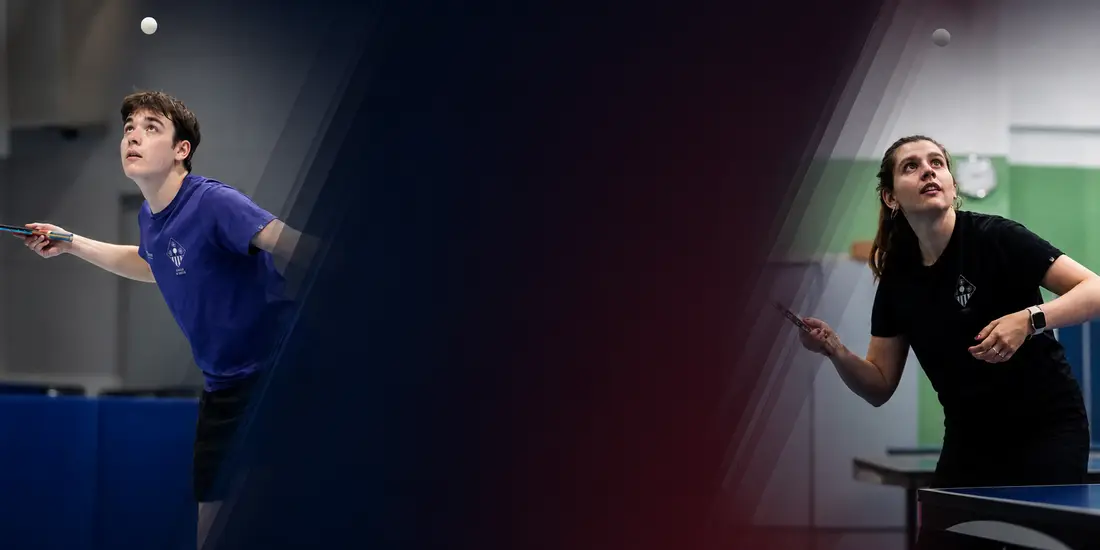
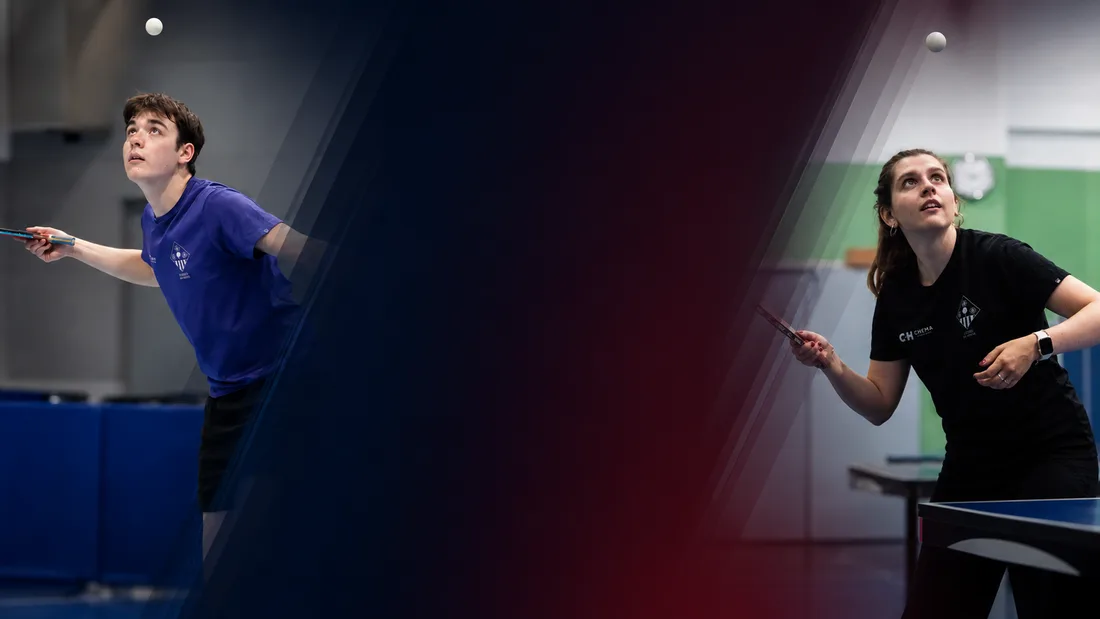
text polishing

diff --git a/js/i18n.js b/js/i18n.js
@@ -26,19 +26,19 @@
       'pillar1.title': 'Entrenaments',
       'pillar1.body': 'Grups per nivell de dilluns a divendres, amb entrenadors del club.',
       'pillar2.title': 'Competició',
-      'pillar2.body': "Equips a la Lliga Sènior, la Lliga de Veterans, la Copa Catalana i els Equips Estatals (equips masculins i femenins).",
+      'pillar2.body': "Equips a la Lliga Sènior, la Lliga de Veterans, la Copa Catalana (FCTT) i Lligues Estatals (RFETM), amb equips masculins i femenins.",
       'pillar3.title': 'Comunitat',
-      'pillar3.body': "La secció de tennis taula de l'associació Lluïsos de Gràcia: jugadors de totes les edats i nivells que comparteixen sala, entrenaments i equips.",
+      'pillar3.body': "La secció de tennis taula de Lluïsos de Gràcia: jugadors de totes les edats i nivells que comparteixen sala, entrenaments i equips.",
 
       'timeline.title': 'La nostra història',
       'milestone1.strong': "Fundació de l'escola",
-      'milestone1.p': "Neix l'Escola de Tennis Taula de Lluïsos de Gràcia, amb un grup reduït de nens i nenes entrenant sota la direcció tècnica d'en Fabio, que encara forma part de l'equip tècnic avui.",
+      'milestone1.p': "Neix l'Escola de Tennis Taula de Lluïsos de Gràcia, amb un grup reduït de nens i nenes entrenant sota la direcció tècnica d'en Fabio Pérez Crespo, que encara forma part de l'equip tècnic avui.",
       'milestone2.strong': 'Debut a les lligues de la FCTT',
       'milestone2.p': "L'ETT inicia la seva participació a les lligues de la Federació Catalana de Tennis Taula.",
       'milestone3.strong': 'Primera temporada a lliga nacional',
       'milestone3.p': "Després d'anys de progressió a les lligues catalanes, el club fa el salt a la competició estatal per primer cop.",
       'milestone4.strong': 'Sala nova',
-      'milestone4.p': "S'inaugura una sala nova, exclusiva per al tennis taula, amb més capacitat per als equips i per als grups de base.",
+      'milestone4.p': "S'inaugura una sala nova, exclusiva per al tennis taula, amb més capacitat per als equips i per als grups de base. S'afegeix a l'antic gimnàs i, a partir de llavors, el club disposa de 12 taules per entrenar.",
       'milestone5.strong': "Lliga nacional femenina i Divisió d'Honor",
       'milestone5.p': "Primera participació de l'equip femení a la lliga nacional, i ascens del primer equip masculí a la Divisió d'Honor.",
 
@@ -47,7 +47,7 @@
       'entity.p2': "Fidels als valors de l'entitat, sempre hem obert les portes a tothom que vulgui jugar, amb independència de l'edat o del nivell de competitivitat.",
 
       'team.title1': 'La junta',
-      'team.body1': "Una colla de voluntaris, alguns de fa anys i altres de nou, que es reparteixen la tresoreria, la compra i el manteniment del material, la gestió d'esdeveniments interns i les xarxes socials, entre moltes altres tasques. Actualment en formen part 11 persones, i la porta sempre és oberta a qui vulgui participar-hi.",
+      'team.body1': "Una colla de voluntaris, alguns de fa anys i altres de nou, que es reparteixen la tresoreria, la compra i el manteniment del material, les gestions administratives i econòmiques, la captació d'espònsors, l'organització d'esdeveniments interns i les xarxes socials, entre moltes altres tasques. Actualment en formen part 7 persones, i la porta sempre és oberta a qui vulgui participar-hi.",
       'team.title2': 'Equip tècnic',
       'team.body2': "12 entrenadors i entrenadores s'encarreguen dels grups de totes les edats i nivells, molts d'ells formats al mateix club. Sempre afavorim que les noves generacions amb ganes de fer-ho s'hi puguin anar incorporant.",
 
@@ -67,7 +67,7 @@
       'sponsor.alt': 'Daruma — Serveis lingüístics i traducció',
 
       'footer.tagline': 'Secció de Tennis Taula',
-      'footer.sponsorCta': 'Ets una empresa i vols col·laborar amb el club? Escriu-nos',
+      'footer.sponsorCta': 'Ets una empresa i vols col·laborar amb el club? Escriu-nos a escolatennistaula@lluisosdegracia.cat',
       'footer.bottom': '© Lluïsos de Gràcia · Secció de Tennis Taula, des de 2008',
 
       'meta.title': 'Lluïsos de Gràcia · Tennis Taula',
@@ -95,19 +95,19 @@
       'pillar1.title': 'Training',
       'pillar1.body': "Level-based groups Monday to Friday, with the club's own coaches.",
       'pillar2.title': 'Competition',
-      'pillar2.body': "Teams in the Senior League, the Veterans League, the Copa Catalana and the National Teams (men's and women's).",
+      'pillar2.body': "Teams in the Senior League, the Veterans League, the Copa Catalana (FCTT) and the National Leagues (RFETM), with both men's and women's teams.",
       'pillar3.title': 'Community',
-      'pillar3.body': "The table tennis section of the Lluïsos de Gràcia association: players of every age and level sharing a hall, training sessions and teams.",
+      'pillar3.body': "The table tennis section of Lluïsos de Gràcia: players of every age and level sharing a hall, training sessions and teams.",
 
       'timeline.title': 'Our history',
       'milestone1.strong': 'The school is founded',
-      'milestone1.p': "The Lluïsos de Gràcia Table Tennis School is born, with a small group of children training under Fabio's technical direction — he's still part of the coaching staff today.",
+      'milestone1.p': "The Lluïsos de Gràcia Table Tennis School is born, with a small group of children training under Fabio Pérez Crespo's technical direction — he's still part of the coaching staff today.",
       'milestone2.strong': 'Debut in the FCTT leagues',
       'milestone2.p': "The ETT begins competing in the Catalan Table Tennis Federation's leagues.",
       'milestone3.strong': 'First season in the national league',
       'milestone3.p': "After years of progress in the Catalan leagues, the club makes the leap to national competition for the first time.",
       'milestone4.strong': 'New hall',
-      'milestone4.p': "A new hall opens, dedicated exclusively to table tennis, with more capacity for the teams and the youth groups.",
+      'milestone4.p': "A new hall opens, dedicated exclusively to table tennis, with more capacity for the teams and the youth groups. It's added to the old gym, and from then on the club has 12 tables to train on.",
       'milestone5.strong': "Women's national league and Divisió d'Honor",
       'milestone5.p': "First participation of the women's team in the national league, and promotion of the men's first team to the Divisió d'Honor.",
 
@@ -116,7 +116,7 @@
       'entity.p2': "True to the entity's values, we've always opened our doors to anyone who wants to play, regardless of age or competitive level.",
 
       'team.title1': 'The board',
-      'team.body1': "A group of volunteers, some long-standing and others new, who share the treasury, buying and maintaining equipment, running internal events, social media and many other tasks. 11 people currently make up the board, and the door is always open to anyone who wants to get involved.",
+      'team.body1': "A group of volunteers, some long-standing and others new, who share the treasury, buying and maintaining equipment, administrative and financial matters, sponsor outreach, running internal events, social media and many other tasks. 7 people currently make up the board, and the door is always open to anyone who wants to get involved.",
       'team.title2': 'Coaching staff',
       'team.body2': "12 coaches run the groups across every age and level, many of them trained at the club itself. We always make room for new generations who want to join the coaching staff.",
 
@@ -136,7 +136,7 @@
       'sponsor.alt': 'Daruma — Language and translation services',
 
       'footer.tagline': 'Table Tennis Section',
-      'footer.sponsorCta': 'Are you a business interested in partnering with the club? Get in touch',
+      'footer.sponsorCta': 'Are you a business interested in partnering with the club? Email us at escolatennistaula@lluisosdegracia.cat',
       'footer.bottom': '© Lluïsos de Gràcia · Table Tennis Section, since 2008',
 
       'meta.title': 'Lluïsos de Gràcia · Table Tennis',

diff --git a/index.html b/index.html
@@ -37,7 +37,7 @@
   <div class="head"><span class="eyebrow" data-i18n="xifres.eyebrow">LLUÏSOS EN XIFRES</span><h2 id="xifres-title" data-i18n="xifres.title">Un club que no para de créixer</h2></div>
   <div class="statsGrid">
     <article class="stat reveal">
-      <strong>150+</strong>
+      <strong>170+</strong>
       <span data-i18n="stat1">anys de trajectòria de Lluïsos de Gràcia</span>
     </article>
     <article class="stat reveal reveal-delay-1">
@@ -53,7 +53,7 @@
       <span data-i18n="stat4">participacions en lligues i competicions cada temporada</span>
     </article>
     <article class="stat reveal reveal-delay-3">
-      <strong>25+</strong>
+      <strong>100+</strong>
       <span data-i18n="stat5">infants als nostres campus cada estiu</span>
     </article>
   </div>
@@ -70,12 +70,12 @@
     <article class="pillar violet reveal reveal-delay-1">
       <svg class="icon" viewBox="0 0 24 24" fill="none" stroke="currentColor" stroke-width="2" aria-hidden="true"><path d="M8 21h8M12 17v4M7 4h10v4a5 5 0 0 1-10 0z"/><path d="M7 5H3v2a4 4 0 0 0 4 4M17 5h4v2a4 4 0 0 1-4 4"/></svg>
       <h3 data-i18n="pillar2.title">Competició</h3>
-      <p data-i18n="pillar2.body">Equips a la Lliga Sènior, la Lliga de Veterans, la Copa Catalana i els Equips Estatals (equips masculins i femenins).</p>
+      <p data-i18n="pillar2.body">Equips a la Lliga Sènior, la Lliga de Veterans, la Copa Catalana (FCTT) i Lligues Estatals (RFETM), amb equips masculins i femenins.</p>
     </article>
     <article class="pillar pink reveal reveal-delay-2">
       <svg class="icon" viewBox="0 0 24 24" fill="none" stroke="currentColor" stroke-width="2" aria-hidden="true"><path d="M16 21v-2a4 4 0 0 0-4-4H6a4 4 0 0 0-4 4v2"/><circle cx="9" cy="7" r="4"/><path d="M22 21v-2a4 4 0 0 0-3-3.87M16 3.13a4 4 0 0 1 0 7.75"/></svg>
       <h3 data-i18n="pillar3.title">Comunitat</h3>
-      <p data-i18n="pillar3.body">La secció de tennis taula de l'associació Lluïsos de Gràcia: jugadors de totes les edats i nivells que comparteixen sala, entrenaments i equips.</p>
+      <p data-i18n="pillar3.body">La secció de tennis taula de Lluïsos de Gràcia: jugadors de totes les edats i nivells que comparteixen sala, entrenaments i equips.</p>
     </article>
   </div>
   <div class="story">
@@ -84,7 +84,7 @@
       <ol class="milestones">
         <li>
           <span class="year">2008</span>
-          <div><strong data-i18n="milestone1.strong">Fundació de l'escola</strong><p data-i18n="milestone1.p">Neix l'Escola de Tennis Taula de Lluïsos de Gràcia, amb un grup reduït de nens i nenes entrenant sota la direcció tècnica d'en Fabio, que encara forma part de l'equip tècnic avui.</p></div>
+          <div><strong data-i18n="milestone1.strong">Fundació de l'escola</strong><p data-i18n="milestone1.p">Neix l'Escola de Tennis Taula de Lluïsos de Gràcia, amb un grup reduït de nens i nenes entrenant sota la direcció tècnica d'en Fabio Pérez Crespo, que encara forma part de l'equip tècnic avui.</p></div>
         </li>
         <li>
           <span class="year">2010</span>
@@ -96,7 +96,7 @@
         </li>
         <li>
           <span class="year">2017</span>
-          <div><strong data-i18n="milestone4.strong">Sala nova</strong><p data-i18n="milestone4.p">S'inaugura una sala nova, exclusiva per al tennis taula, amb més capacitat per als equips i per als grups de base.</p></div>
+          <div><strong data-i18n="milestone4.strong">Sala nova</strong><p data-i18n="milestone4.p">S'inaugura una sala nova, exclusiva per al tennis taula, amb més capacitat per als equips i per als grups de base. S'afegeix a l'antic gimnàs i, a partir de llavors, el club disposa de 12 taules per entrenar.</p></div>
         </li>
         <li>
           <span class="year">2026</span>
@@ -114,7 +114,7 @@
   <div class="team">
     <div class="reveal">
       <h3 data-i18n="team.title1">La junta</h3>
-      <p data-i18n="team.body1">Una colla de voluntaris, alguns de fa anys i altres de nou, que es reparteixen la tresoreria, la compra i el manteniment del material, la gestió d'esdeveniments interns i les xarxes socials, entre moltes altres tasques. Actualment en formen part 11 persones, i la porta sempre és oberta a qui vulgui participar-hi.</p>
+      <p data-i18n="team.body1">Una colla de voluntaris, alguns de fa anys i altres de nou, que es reparteixen la tresoreria, la compra i el manteniment del material, les gestions administratives i econòmiques, la captació d'espònsors, l'organització d'esdeveniments interns i les xarxes socials, entre moltes altres tasques. Actualment en formen part 7 persones, i la porta sempre és oberta a qui vulgui participar-hi.</p>
     </div>
     <div class="reveal reveal-delay-1">
       <h3 data-i18n="team.title2">Equip tècnic</h3>
@@ -186,7 +186,7 @@
     </nav>
     <div class="footerConnect">
       <a href="https://www.instagram.com/lluisosgraciatt" target="_blank" rel="noreferrer">Instagram @lluisosgraciatt</a>
-      <a href="mailto:escolatennistaula@lluisosdegracia.cat" data-i18n="footer.sponsorCta">Ets una empresa i vols col·laborar amb el club? Escriu-nos</a>
+      <a href="mailto:escolatennistaula@lluisosdegracia.cat" data-i18n="footer.sponsorCta">Ets una empresa i vols col·laborar amb el club? Escriu-nos a escolatennistaula@lluisosdegracia.cat</a>
     </div>
   </div>
   <div class="footerBottom" data-i18n="footer.bottom">© Lluïsos de Gràcia · Secció de Tennis Taula, des de 2008</div>

diff --git a/css/styles.css b/css/styles.css
@@ -2,13 +2,13 @@
    Ported from apps/web/app/landing.module.css in the LLdG monorepo (see LLdG-static/README.md). */
 *{box-sizing:border-box}
 html{scroll-behavior:smooth}
-body{margin:0;min-height:100vh;background:#0b0d1c;color:#f0f3ff;font-family:'DM Sans',system-ui,sans-serif}
+body{margin:0;min-height:100vh;overflow-x:hidden;background:#0b0d1c;color:#f0f3ff;font-family:'DM Sans',system-ui,sans-serif}
 a{color:#7fd0f7}a:hover{color:#b8e6fc}
 h1,h2,h3{font-family:Manrope,'DM Sans',sans-serif}
 img{max-width:100%}
 
 /* hero: the banner, with the copy in its dark middle */
-.hero{position:relative;min-height:720px;display:flex;flex-direction:column;background:#0b0d1c url(../assets/brand/hero.webp) center/cover no-repeat}
+.hero{position:relative;min-height:720px;display:flex;flex-direction:column;background:#0b0d1c url(../assets/brand/hero.png) center/cover no-repeat}
 .header{position:relative;display:flex;align-items:center;justify-content:center;gap:24px;width:100%;max-width:1360px;margin:0 auto;padding:22px 40px;box-sizing:border-box}
 .nav{display:flex;gap:28px;font-size:15px;font-weight:500}
 .nav a{color:#dce2f7;text-decoration:none}.nav a:hover{color:#fff}
@@ -133,4 +133,17 @@ img{max-width:100%}
   .footer{padding:40px 16px 0}
   .footerTop{flex-direction:column;gap:28px}
   .footerConnect{align-items:flex-start}
+}
+@media (max-width:420px){
+  .heroFlower{width:56px;height:56px}
+  .heroBrand{font-size:21px}
+  .heroInner h1{font-size:30px}
+  .heroInner p{font-size:15px}
+  .statsGrid{grid-template-columns:minmax(0,1fr)}
+  .milestones .year{width:46px;height:46px;font-size:10px}
+  .milestones::before{left:22px}
+}
+@media (max-height:480px) and (orientation:landscape){
+  .hero{min-height:auto}
+  .heroInner{padding-top:16px;padding-bottom:24px;gap:14px}
 }
